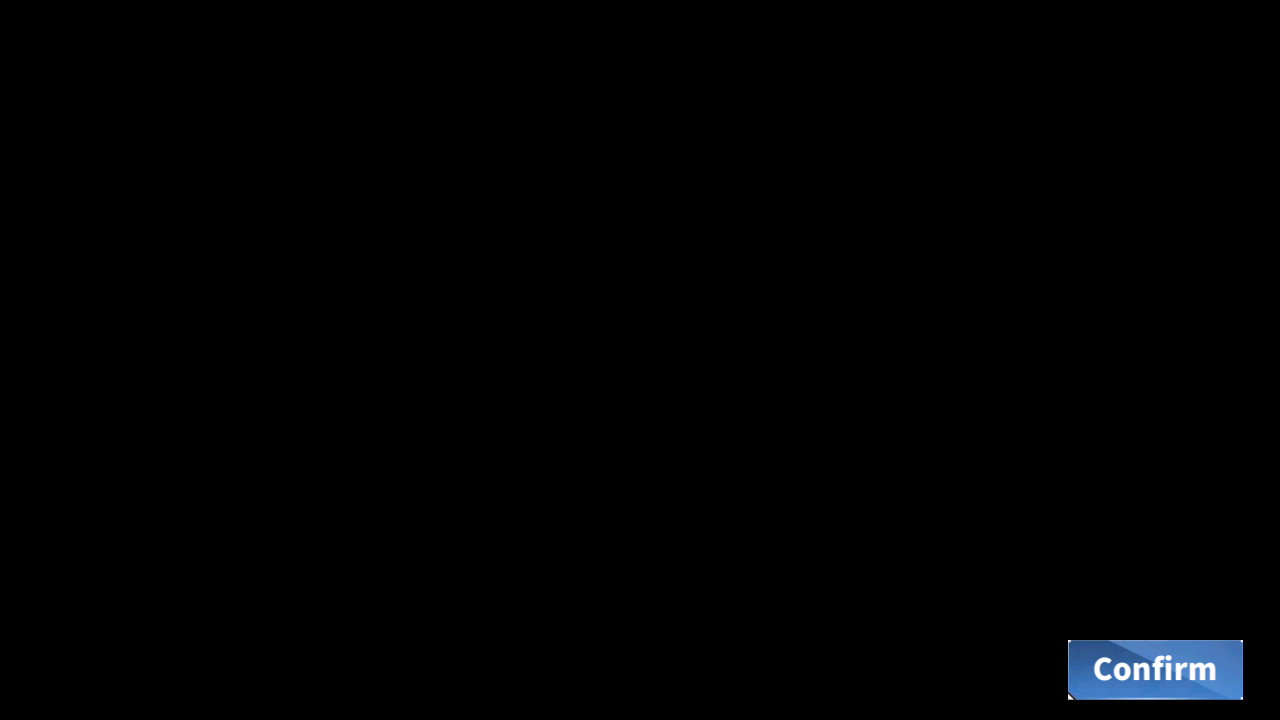
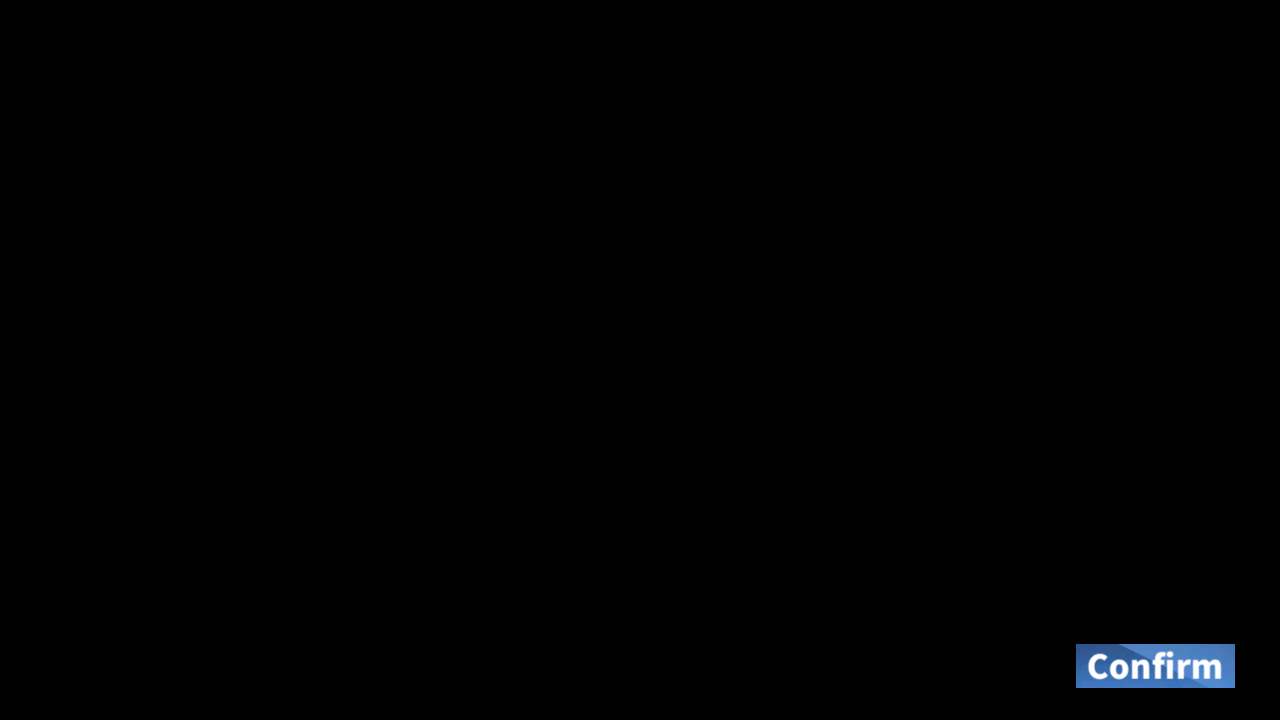
Fix: [EN] Update retire assets (#1967)

Changed region(s): [[0.8125, 0.8861, 0.9688, 0.9778]]

diff --git a/module/retire/assets.py b/module/retire/assets.py
@@ -21,8 +21,8 @@ ENHANCE_RELOAD = Button(area={'cn': (898, 277, 1164, 291), 'en': (898, 277, 1164
 EQUIP_CONFIRM = Button(area={'cn': (871, 516, 1044, 573), 'en': (870, 515, 1045, 574), 'jp': (871, 516, 1044, 572), 'tw': (873, 515, 1043, 572)}, color={'cn': (95, 143, 203), 'en': (103, 150, 208), 'jp': (92, 140, 200), 'tw': (94, 142, 203)}, button={'cn': (871, 516, 1044, 573), 'en': (870, 515, 1045, 574), 'jp': (871, 516, 1044, 572), 'tw': (873, 515, 1043, 572)}, file={'cn': './assets/cn/retire/EQUIP_CONFIRM.png', 'en': './assets/en/retire/EQUIP_CONFIRM.png', 'jp': './assets/jp/retire/EQUIP_CONFIRM.png', 'tw': './assets/tw/retire/EQUIP_CONFIRM.png'})
 EQUIP_CONFIRM_2 = Button(area={'cn': (720, 541, 893, 598), 'en': (719, 540, 894, 600), 'jp': (720, 541, 893, 597), 'tw': (722, 541, 892, 598)}, color={'cn': (94, 142, 202), 'en': (108, 153, 208), 'jp': (91, 139, 198), 'tw': (93, 141, 203)}, button={'cn': (720, 541, 893, 598), 'en': (719, 540, 894, 600), 'jp': (720, 541, 893, 597), 'tw': (722, 541, 892, 598)}, file={'cn': './assets/cn/retire/EQUIP_CONFIRM_2.png', 'en': './assets/en/retire/EQUIP_CONFIRM_2.png', 'jp': './assets/jp/retire/EQUIP_CONFIRM_2.png', 'tw': './assets/tw/retire/EQUIP_CONFIRM_2.png'})
 GET_ITEMS_1_RETIREMENT_SAVE = Button(area={'cn': (1031, 656, 1063, 688), 'en': (1031, 656, 1063, 688), 'jp': (1031, 656, 1063, 688), 'tw': (1031, 656, 1063, 688)}, color={'cn': (49, 44, 54), 'en': (49, 44, 54), 'jp': (49, 44, 54), 'tw': (49, 44, 54)}, button={'cn': (1031, 656, 1063, 688), 'en': (1031, 656, 1063, 688), 'jp': (1031, 656, 1063, 688), 'tw': (1031, 656, 1063, 688)}, file={'cn': './assets/cn/retire/GET_ITEMS_1_RETIREMENT_SAVE.png', 'en': './assets/en/retire/GET_ITEMS_1_RETIREMENT_SAVE.png', 'jp': './assets/jp/retire/GET_ITEMS_1_RETIREMENT_SAVE.png', 'tw': './assets/tw/retire/GET_ITEMS_1_RETIREMENT_SAVE.png'})
-IN_RETIREMENT_CHECK = Button(area={'cn': (854, 641, 1027, 698), 'en': (853, 640, 1028, 700), 'jp': (855, 641, 1027, 697), 'tw': (854, 641, 1027, 698)}, color={'cn': (184, 99, 89), 'en': (184, 101, 92), 'jp': (179, 93, 85), 'tw': (184, 99, 89)}, button={'cn': (854, 641, 1027, 698), 'en': (853, 640, 1028, 700), 'jp': (855, 641, 1027, 697), 'tw': (854, 641, 1027, 698)}, file={'cn': './assets/cn/retire/IN_RETIREMENT_CHECK.png', 'en': './assets/en/retire/IN_RETIREMENT_CHECK.png', 'jp': './assets/jp/retire/IN_RETIREMENT_CHECK.png', 'tw': './assets/tw/retire/IN_RETIREMENT_CHECK.png'})
-ONE_CLICK_RETIREMENT = Button(area={'cn': (639, 641, 811, 698), 'en': (637, 640, 813, 700), 'jp': (638, 641, 812, 697), 'tw': (639, 641, 811, 698)}, color={'cn': (94, 138, 194), 'en': (93, 136, 192), 'jp': (90, 133, 190), 'tw': (94, 138, 194)}, button={'cn': (639, 641, 811, 698), 'en': (637, 640, 813, 700), 'jp': (638, 641, 812, 697), 'tw': (639, 641, 811, 698)}, file={'cn': './assets/cn/retire/ONE_CLICK_RETIREMENT.png', 'en': './assets/en/retire/ONE_CLICK_RETIREMENT.png', 'jp': './assets/jp/retire/ONE_CLICK_RETIREMENT.png', 'tw': './assets/tw/retire/ONE_CLICK_RETIREMENT.png'})
+IN_RETIREMENT_CHECK = Button(area={'cn': (854, 641, 1027, 698), 'en': (866, 647, 1016, 690), 'jp': (855, 641, 1027, 697), 'tw': (854, 641, 1027, 698)}, color={'cn': (184, 99, 89), 'en': (191, 117, 108), 'jp': (179, 93, 85), 'tw': (184, 99, 89)}, button={'cn': (854, 641, 1027, 698), 'en': (866, 647, 1016, 690), 'jp': (855, 641, 1027, 697), 'tw': (854, 641, 1027, 698)}, file={'cn': './assets/cn/retire/IN_RETIREMENT_CHECK.png', 'en': './assets/en/retire/IN_RETIREMENT_CHECK.png', 'jp': './assets/jp/retire/IN_RETIREMENT_CHECK.png', 'tw': './assets/tw/retire/IN_RETIREMENT_CHECK.png'})
+ONE_CLICK_RETIREMENT = Button(area={'cn': (639, 641, 811, 698), 'en': (645, 649, 804, 687), 'jp': (638, 641, 812, 697), 'tw': (639, 641, 811, 698)}, color={'cn': (94, 138, 194), 'en': (113, 151, 201), 'jp': (90, 133, 190), 'tw': (94, 138, 194)}, button={'cn': (639, 641, 811, 698), 'en': (645, 649, 804, 687), 'jp': (638, 641, 812, 697), 'tw': (639, 641, 811, 698)}, file={'cn': './assets/cn/retire/ONE_CLICK_RETIREMENT.png', 'en': './assets/en/retire/ONE_CLICK_RETIREMENT.png', 'jp': './assets/jp/retire/ONE_CLICK_RETIREMENT.png', 'tw': './assets/tw/retire/ONE_CLICK_RETIREMENT.png'})
 RETIRE_APPEAR_1 = Button(area={'cn': (404, 501, 477, 532), 'en': (408, 497, 472, 521), 'jp': (404, 497, 477, 528), 'tw': (404, 501, 477, 532)}, color={'cn': (153, 183, 221), 'en': (158, 187, 223), 'jp': (141, 175, 216), 'tw': (153, 183, 221)}, button={'cn': (404, 501, 477, 532), 'en': (408, 497, 472, 521), 'jp': (404, 497, 477, 528), 'tw': (404, 501, 477, 532)}, file={'cn': './assets/cn/retire/RETIRE_APPEAR_1.png', 'en': './assets/en/retire/RETIRE_APPEAR_1.png', 'jp': './assets/jp/retire/RETIRE_APPEAR_1.png', 'tw': './assets/tw/retire/RETIRE_APPEAR_1.png'})
 RETIRE_APPEAR_2 = Button(area={'cn': (604, 501, 677, 533), 'en': (585, 496, 694, 527), 'jp': (604, 497, 677, 529), 'tw': (603, 501, 677, 533)}, color={'cn': (146, 178, 219), 'en': (146, 179, 220), 'jp': (136, 171, 215), 'tw': (145, 177, 218)}, button={'cn': (604, 501, 677, 533), 'en': (585, 496, 694, 527), 'jp': (604, 497, 677, 529), 'tw': (603, 501, 677, 533)}, file={'cn': './assets/cn/retire/RETIRE_APPEAR_2.png', 'en': './assets/en/retire/RETIRE_APPEAR_2.png', 'jp': './assets/jp/retire/RETIRE_APPEAR_2.png', 'tw': './assets/tw/retire/RETIRE_APPEAR_2.png'})
 RETIRE_APPEAR_3 = Button(area={'cn': (804, 501, 876, 533), 'en': (776, 496, 904, 521), 'jp': (804, 497, 876, 529), 'tw': (804, 501, 877, 533)}, color={'cn': (148, 179, 219), 'en': (155, 184, 222), 'jp': (136, 170, 214), 'tw': (147, 179, 219)}, button={'cn': (804, 501, 876, 533), 'en': (776, 496, 904, 521), 'jp': (804, 497, 876, 529), 'tw': (804, 501, 877, 533)}, file={'cn': './assets/cn/retire/RETIRE_APPEAR_3.png', 'en': './assets/en/retire/RETIRE_APPEAR_3.png', 'jp': './assets/jp/retire/RETIRE_APPEAR_3.png', 'tw': './assets/tw/retire/RETIRE_APPEAR_3.png'})
@@ -35,7 +35,7 @@ RETIRE_SETTING_5_ALL = Button(area={'cn': (970, 537, 997, 563), 'en': (970, 537,
 RETIRE_SETTING_5_PRESERVE = Button(area={'cn': (863, 538, 890, 563), 'en': (863, 538, 890, 563), 'jp': (863, 538, 890, 563), 'tw': (863, 538, 890, 563)}, color={'cn': (62, 70, 92), 'en': (62, 70, 92), 'jp': (62, 70, 92), 'tw': (62, 70, 92)}, button={'cn': (863, 538, 890, 563), 'en': (863, 538, 890, 563), 'jp': (863, 538, 890, 563), 'tw': (863, 538, 890, 563)}, file={'cn': './assets/cn/retire/RETIRE_SETTING_5_PRESERVE.png', 'en': './assets/cn/retire/RETIRE_SETTING_5_PRESERVE.png', 'jp': './assets/cn/retire/RETIRE_SETTING_5_PRESERVE.png', 'tw': './assets/cn/retire/RETIRE_SETTING_5_PRESERVE.png'})
 RETIRE_SETTING_ENTER = Button(area={'cn': (20, 501, 50, 531), 'en': (20, 501, 50, 531), 'jp': (20, 501, 50, 531), 'tw': (20, 501, 50, 531)}, color={'cn': (181, 181, 182), 'en': (181, 181, 182), 'jp': (181, 181, 182), 'tw': (181, 181, 182)}, button={'cn': (20, 501, 50, 531), 'en': (20, 501, 50, 531), 'jp': (20, 501, 50, 531), 'tw': (20, 501, 50, 531)}, file={'cn': './assets/cn/retire/RETIRE_SETTING_ENTER.png', 'en': './assets/en/retire/RETIRE_SETTING_ENTER.png', 'jp': './assets/jp/retire/RETIRE_SETTING_ENTER.png', 'tw': './assets/tw/retire/RETIRE_SETTING_ENTER.png'})
 RETIRE_SETTING_QUIT = Button(area={'cn': (986, 140, 1016, 169), 'en': (986, 140, 1016, 169), 'jp': (986, 140, 1016, 169), 'tw': (986, 140, 1016, 169)}, color={'cn': (224, 118, 113), 'en': (224, 118, 113), 'jp': (224, 118, 113), 'tw': (224, 118, 113)}, button={'cn': (986, 140, 1016, 169), 'en': (986, 140, 1016, 169), 'jp': (986, 140, 1016, 169), 'tw': (986, 140, 1016, 169)}, file={'cn': './assets/cn/retire/RETIRE_SETTING_QUIT.png', 'en': './assets/en/retire/RETIRE_SETTING_QUIT.png', 'jp': './assets/jp/retire/RETIRE_SETTING_QUIT.png', 'tw': './assets/tw/retire/RETIRE_SETTING_QUIT.png'})
-SHIP_CONFIRM = Button(area={'cn': (1069, 641, 1241, 698), 'en': (1068, 640, 1243, 700), 'jp': (1069, 641, 1242, 697), 'tw': (1071, 641, 1241, 698)}, color={'cn': (84, 131, 190), 'en': (92, 136, 192), 'jp': (82, 128, 187), 'tw': (83, 130, 190)}, button={'cn': (1069, 641, 1241, 698), 'en': (1068, 640, 1243, 700), 'jp': (1069, 641, 1242, 697), 'tw': (1071, 641, 1241, 698)}, file={'cn': './assets/cn/retire/SHIP_CONFIRM.png', 'en': './assets/en/retire/SHIP_CONFIRM.png', 'jp': './assets/jp/retire/SHIP_CONFIRM.png', 'tw': './assets/tw/retire/SHIP_CONFIRM.png'})
+SHIP_CONFIRM = Button(area={'cn': (1069, 641, 1241, 698), 'en': (1076, 644, 1235, 688), 'jp': (1069, 641, 1242, 697), 'tw': (1071, 641, 1241, 698)}, color={'cn': (84, 131, 190), 'en': (108, 147, 198), 'jp': (82, 128, 187), 'tw': (83, 130, 190)}, button={'cn': (1069, 641, 1241, 698), 'en': (1076, 644, 1235, 688), 'jp': (1069, 641, 1242, 697), 'tw': (1071, 641, 1241, 698)}, file={'cn': './assets/cn/retire/SHIP_CONFIRM.png', 'en': './assets/en/retire/SHIP_CONFIRM.png', 'jp': './assets/jp/retire/SHIP_CONFIRM.png', 'tw': './assets/tw/retire/SHIP_CONFIRM.png'})
 SHIP_CONFIRM_2 = Button(area={'cn': (928, 617, 1100, 674), 'en': (927, 615, 1101, 675), 'jp': (928, 617, 1100, 673), 'tw': (929, 616, 1099, 673)}, color={'cn': (95, 143, 203), 'en': (104, 149, 206), 'jp': (93, 140, 200), 'tw': (94, 142, 203)}, button={'cn': (928, 617, 1100, 674), 'en': (927, 615, 1101, 675), 'jp': (928, 617, 1100, 673), 'tw': (929, 616, 1099, 673)}, file={'cn': './assets/cn/retire/SHIP_CONFIRM_2.png', 'en': './assets/en/retire/SHIP_CONFIRM_2.png', 'jp': './assets/jp/retire/SHIP_CONFIRM_2.png', 'tw': './assets/tw/retire/SHIP_CONFIRM_2.png'})
 SHIP_DETAIL_CHECK = Button(area={'cn': (121, 15, 230, 40), 'en': (126, 16, 225, 39), 'jp': (126, 15, 179, 39), 'tw': (121, 14, 228, 40)}, color={'cn': (152, 168, 206), 'en': (125, 138, 179), 'jp': (168, 183, 217), 'tw': (147, 164, 203)}, button={'cn': (121, 15, 230, 40), 'en': (126, 16, 225, 39), 'jp': (126, 15, 179, 39), 'tw': (121, 14, 228, 40)}, file={'cn': './assets/cn/retire/SHIP_DETAIL_CHECK.png', 'en': './assets/en/retire/SHIP_DETAIL_CHECK.png', 'jp': './assets/jp/retire/SHIP_DETAIL_CHECK.png', 'tw': './assets/tw/retire/SHIP_DETAIL_CHECK.png'})
 SORTING_CLICK = Button(area={'cn': (1004, 14, 1096, 42), 'en': (1002, 12, 1058, 44), 'jp': (1005, 15, 1065, 37), 'tw': (1002, 12, 1098, 44)}, color={'cn': (49, 54, 67), 'en': (47, 51, 65), 'jp': (67, 73, 88), 'tw': (46, 51, 64)}, button={'cn': (1004, 14, 1096, 42), 'en': (1002, 12, 1058, 44), 'jp': (1005, 15, 1065, 37), 'tw': (1002, 12, 1098, 44)}, file={'cn': './assets/cn/retire/SORTING_CLICK.png', 'en': './assets/en/retire/SORTING_CLICK.png', 'jp': './assets/jp/retire/SORTING_CLICK.png', 'tw': './assets/tw/retire/SORTING_CLICK.png'})
